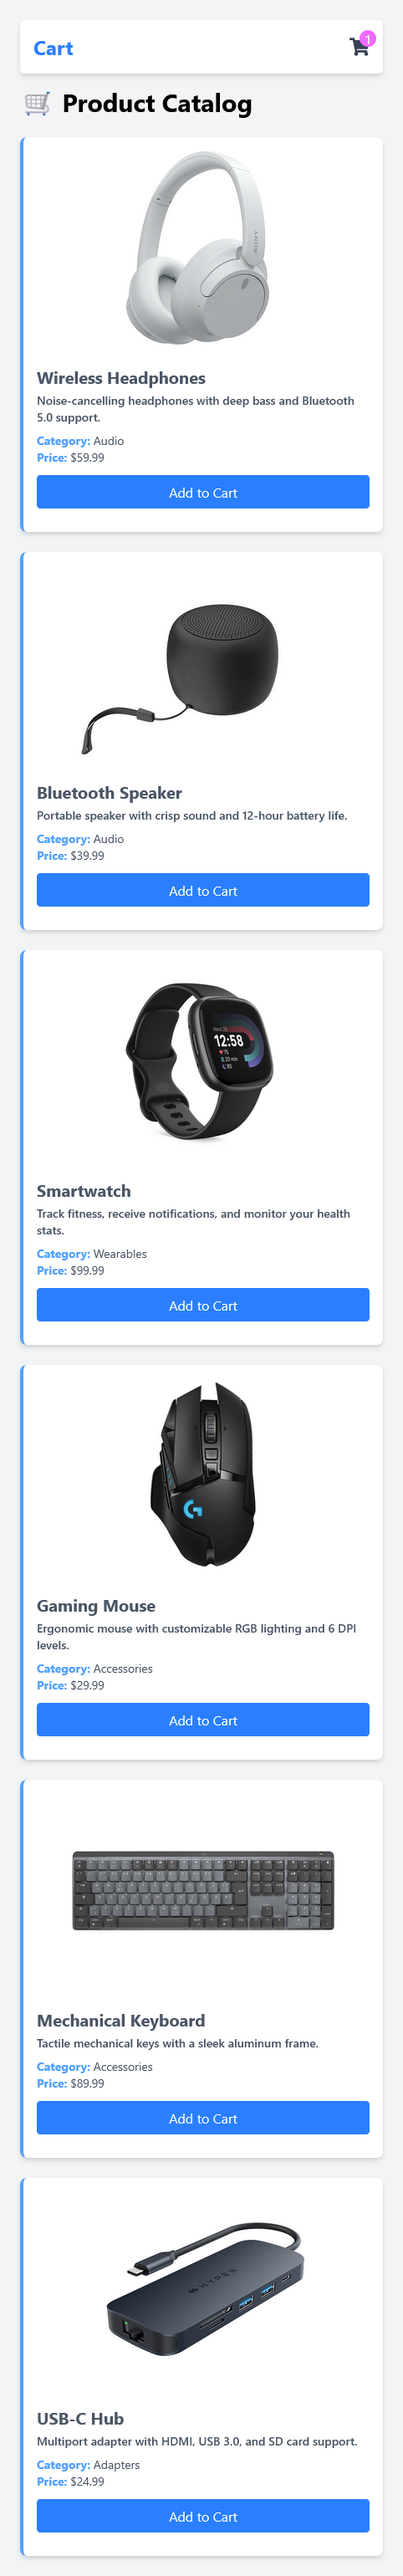
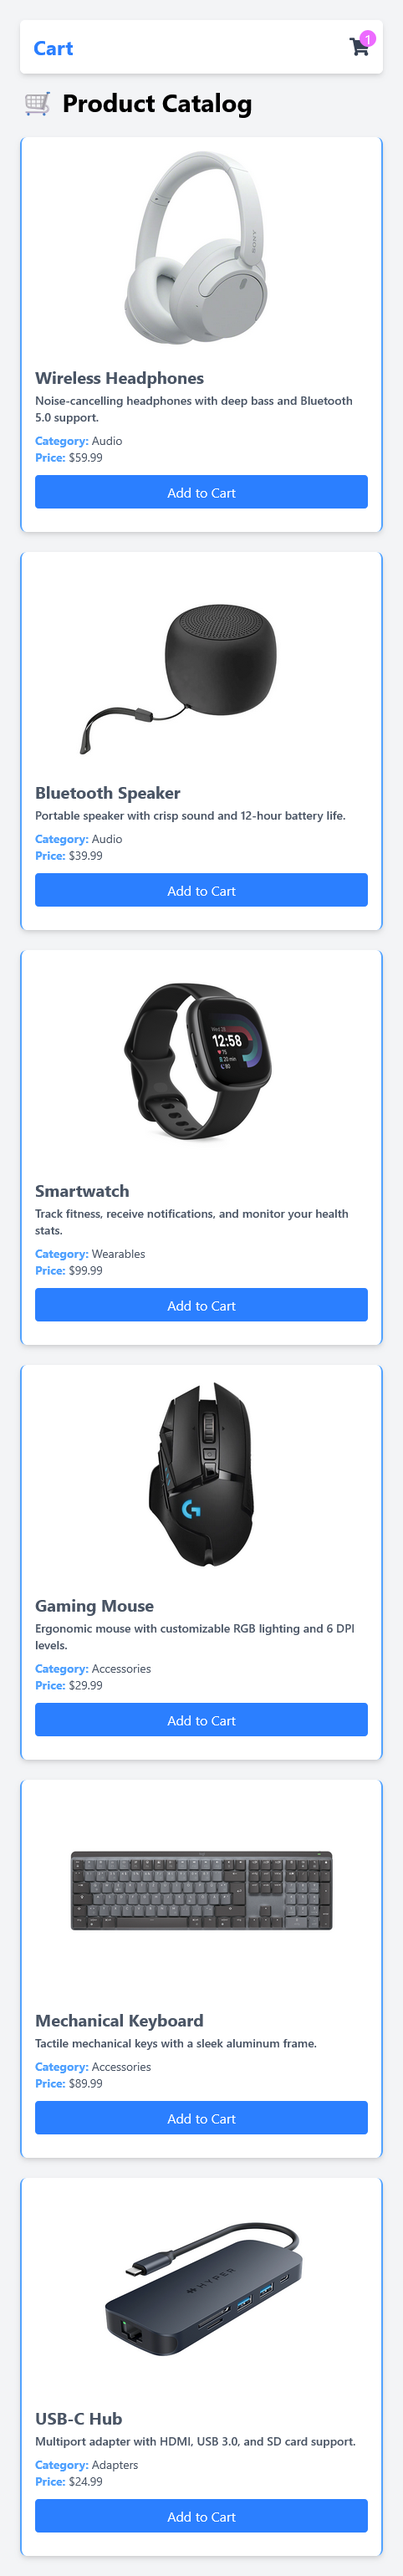
Mobile screenshot updated

diff --git a/src/components/Header.jsx b/src/components/Header.jsx
@@ -1,8 +1,13 @@
+import { useState } from 'react';
 import { FaShoppingCart } from 'react-icons/fa';
 import { useCart } from '../context/CartContext';
 const Header = () => {
+  const [showDropdown, setShowDropdown] = useState(false);
   const { cart } = useCart();
-  const itemCount = cart.reduce((total, item) => total + item.quantity, 0);
+  const itemCount = cart.reduce((acc, item) => acc + item.quantity, 0);
+  const total = cart
+    .reduce((acc, item) => acc + item.price * item.quantity, 0)
+    .toFixed(2);
   return (
     <header className='max-w-md bg-white mb-4 rounded-md shadow-md p-4 flex justify-between items-center'>
       <h1 className='text-2xl text-blue-500 font-bold'>Cart</h1>

diff --git a/src/components/ProductCard.jsx b/src/components/ProductCard.jsx
@@ -3,7 +3,7 @@ import { useCart } from '../context/CartContext';
 const ProductCard = ({ product }) => {
   const { addToCart } = useCart();
   return (
-    <div className='bg-white p-4 rounded-lg shadow-md border-l-4 border-blue-400 flex flex-col'>
+    <div className='bg-white p-4 rounded-lg shadow-md border-l-2 border-r-2 border-blue-400 flex flex-col'>
       <img
         src={product.image}
         alt={product.name}
